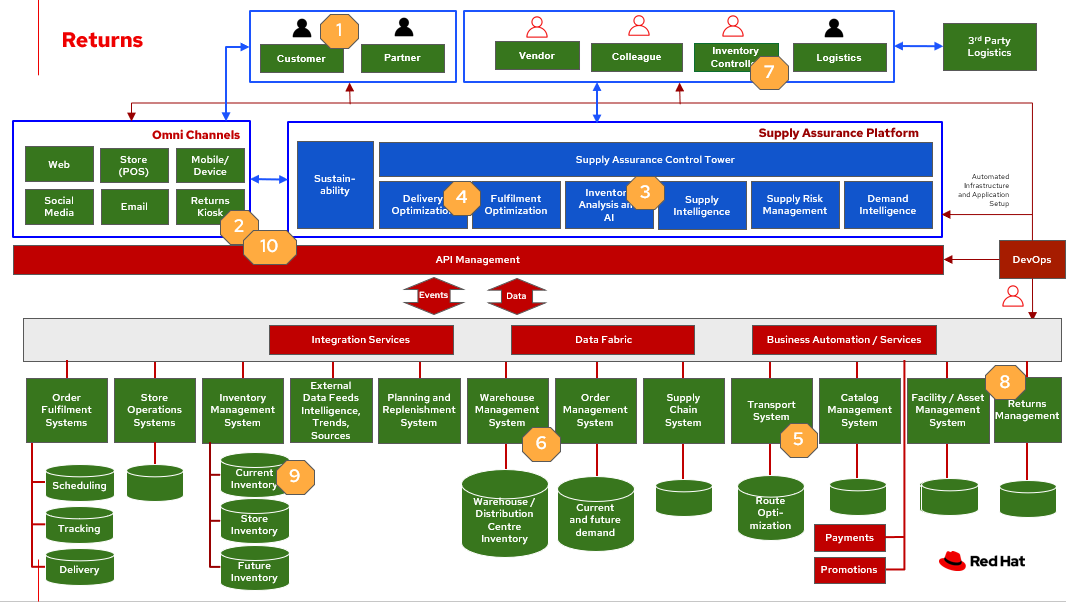
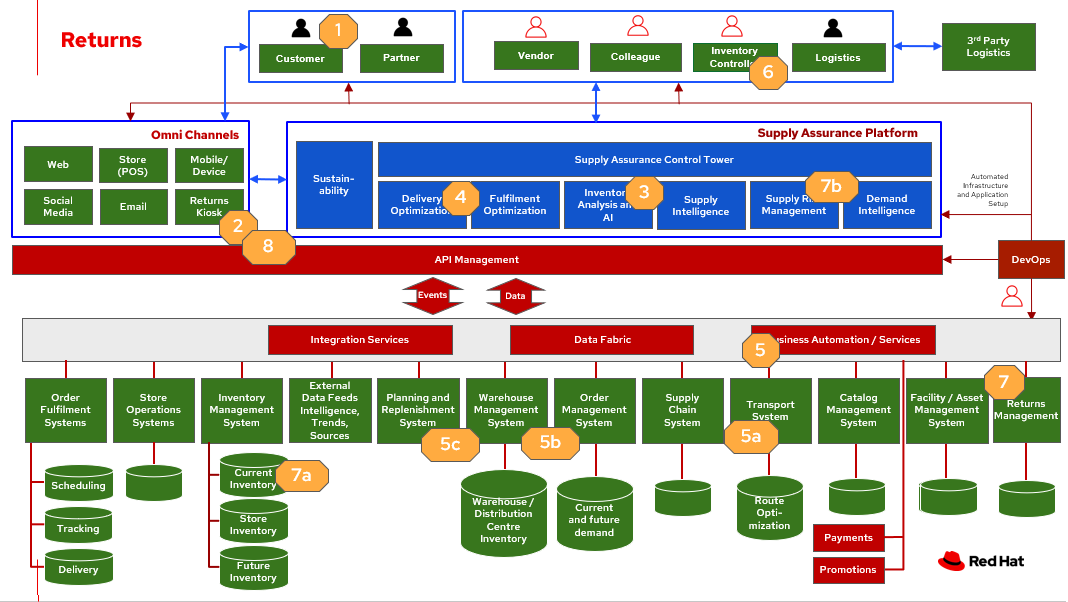
update returns

diff --git a/docs/supplychain/returns.md b/docs/supplychain/returns.md
@@ -26,34 +26,34 @@ Making returns easy for consumers is a way to create a loyal customer.
 
 *Minimizing returns losses* by:
 
-    - Sell the right item. One major step that eliminates a possible return is to make sure you sell the right item to the right customer. 
-    - Save the sale. The ‘save the sale’ method is key for businesses who are looking to compensate for returns through a loyalty incentive. 
-    - Smart returns. Smart returns will require a connected network of inventory visibility, as well as predicted demand.
-    - Predict returns. Data plays a vital role when it comes to predicting returns. Specifically, data that tracks the reason for a return: whether it's done directly (item was damaged, didn’t fit, wasn’t as pictured, etc.) or learned through predictive analytics.
-    - Buy online, pick up (or return) in-store. Retailers can give shoppers greater flexibility by allowing them to purchase online and then pick up in-store. While they’re there to pick up, they can test or try products they’ve ordered and make an exchange via curbside processing if needed.
-    - Virtual or personal shopping. Whether it’s a virtual showcase of new items for your most loyal customers, or enabling sales associates to set aside items for shoppers based on their past purchase history, these tech-enabled shopping solutions should help lower the risk of returns.
-    - Process returns quickly and efficiently, reducing the amount of time and employee hours spent.
+- Sell the right item. One major step that eliminates a possible return is to make sure you sell the right item to the right customer. 
+- Save the sale. The ‘save the sale’ method is key for businesses who are looking to compensate for returns through a loyalty incentive. 
+- Smart returns. Smart returns will require a connected network of inventory visibility, as well as predicted demand.
+- Predict returns. Data plays a vital role when it comes to predicting returns. Specifically, data that tracks the reason for a return: whether it's done directly (item was damaged, didn’t fit, wasn’t as pictured, etc.) or learned through predictive analytics.
+- Buy online, pick up (or return) in-store. Retailers can give shoppers greater flexibility by allowing them to purchase online and then pick up in-store. While they’re there to pick up, they can test or try products they’ve ordered and make an exchange via curbside processing if needed.
+- Virtual or personal shopping. Whether it’s a virtual showcase of new items for your most loyal customers, or enabling sales associates to set aside items for shoppers based on their past purchase history, these tech-enabled shopping solutions should help lower the risk of returns.
+- Process returns quickly and efficiently, reducing the amount of time and employee hours spent.
 
 *Identify fraudulent returns*:
 
-    - Returning stolen merchandise
-    - Receipt fraud
-    - Employee fraud
-    - Price switching
-    - Price arbitrage
-    - Switch fraud
-    - Bricking
-    - Cross-retail return
-    - Open-box fraud
-    - Wardrobing
+- Returning stolen merchandise
+- Receipt fraud
+- Employee fraud
+- Price switching
+- Price arbitrage
+- Switch fraud
+- Bricking
+- Cross-retail return
+- Open-box fraud
+- Wardrobing
 
 **Drivers**
 
 - Increase customer loyalty with appropriate returns policies
 - Minimizing returns losses
 - The return process is an opportunity to upsell
-- Identify fraulent returns
-
+- Identify fraudulent returns
+- Provide sustainable transport of returned items
 
 ### Responses
 
@@ -71,10 +71,9 @@ The solution shown in Figure 1 uses components that can be grouped into three ma
 - **Foundational infrastructure**. The Red Hat/IBM solution is built on Red Hat OpenShift with data routed through API management and events routed through business automation tools such as Business Automation Workshop.
 - **Inventory Optimization** platform consisting of a Supply Assurance Control Panel, Fulfillment Optimization, and Inventory Analysis & AI.
 
-![solution overview]()
+![solution overview](./media/returnsmanagementoverview.png)
 
 _Figure 1. Overall view of demand risk solution._
-
 
 ## Logical diagrams
 
@@ -137,6 +136,7 @@ Returns workflow steps:
 <li>Once it is determined usable or not, a decision is made to
 <ol type="a">
 <li>Return the item in inventory for resell, adding it it to current inventory, store inventory or dispose of the item identify the reason for the return
+<li>Review for fraudulent return patterns
 </ol>
 <li>Refund or provide store credit
 </ol>
@@ -184,7 +184,7 @@ For a comprehensive supply chain overview, see [Supply Chain Optimization](https
 - Mahesh Dodani, Principal Industry Engineer, IBM Technology
 - Thalia Hooker, Senior Principal Specialist Solution Architect, Red Hat
 - Lee Carbonell, Senior Solution Architect & Master Inventor, IBM
-- !TODO
+- Ramesh Yerramsetti, Customer Success Architect, IBM Technology
 
 ## Download diagrams
 
